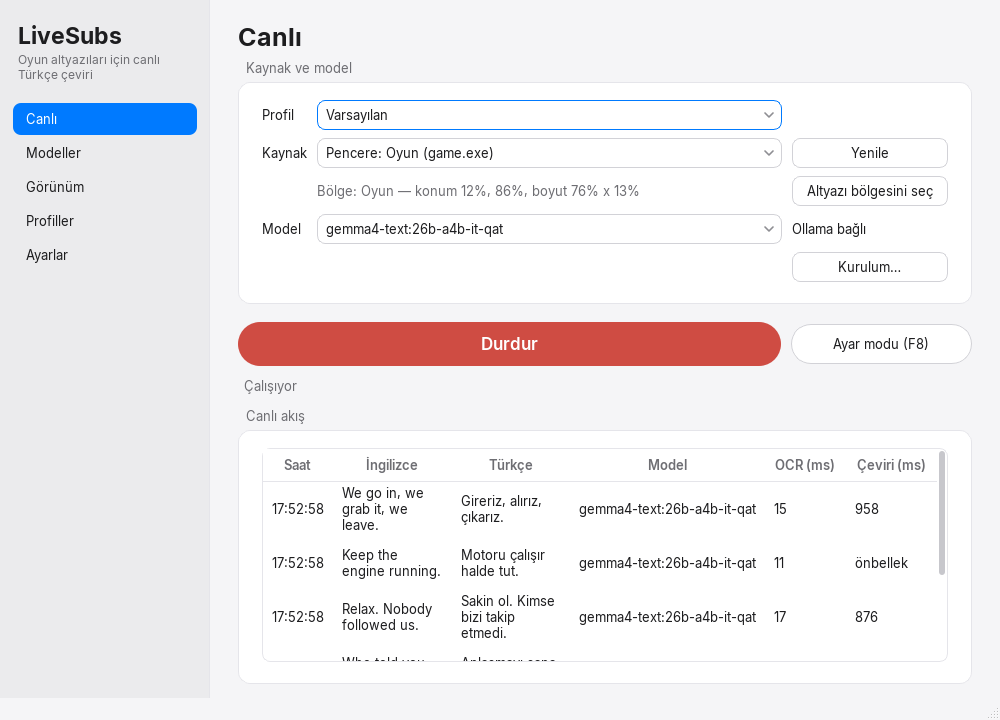
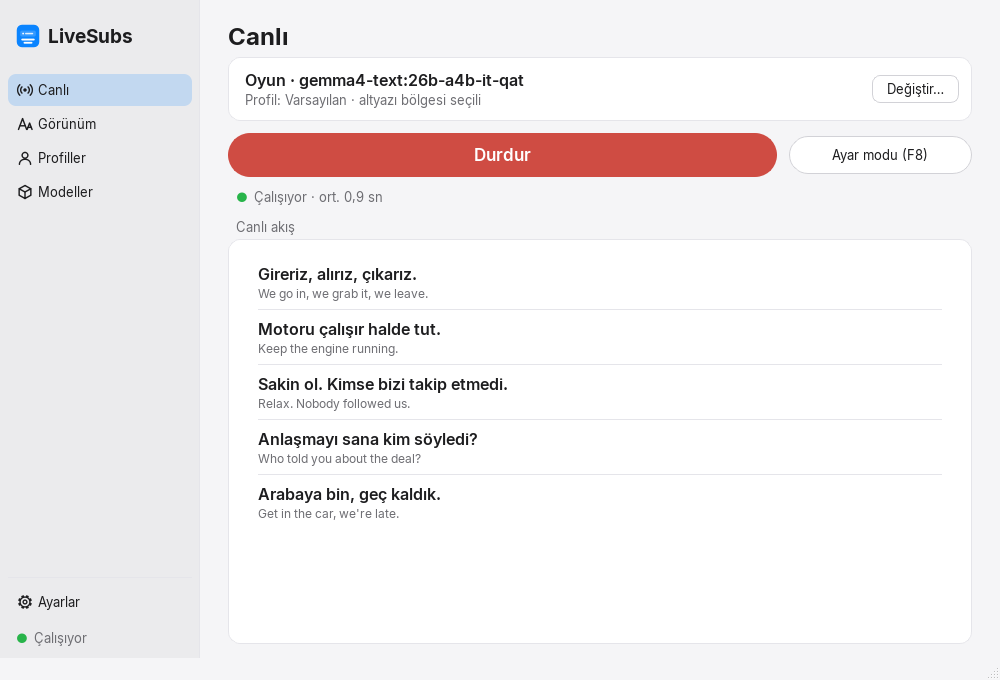
Regenerate the README screenshots and document the redesign
Screenshots rendered offscreen with fake sources and lines in Apple dark
and light. The Models page hides its empty download status row. README
(EN/TR) and CLAUDE.md describe the themes, the sidebar and the pages.

diff --git a/src/livesubs/ui/tabs/models.py b/src/livesubs/ui/tabs/models.py
@@ -254,6 +254,7 @@ class ModelsTab(QWidget):
         self.pull_progress.hide()
         grid.addWidget(self.pull_progress, 2, 0, 1, 3)
         self.pull_status = QLabel(wordWrap=True)
+        self.pull_status.hide()  # shown with a message: no empty row in the card
         grid.addWidget(self.pull_status, 3, 0, 1, 3)
         self._update_pull_hint(self.pull_combo.currentText())
         return box
@@ -487,6 +488,10 @@ class ModelsTab(QWidget):
 
     # --- download --------------------------------------------------------------------------------
 
+    def _set_pull_status(self, text: str) -> None:
+        self.pull_status.setText(text)
+        self.pull_status.setVisible(bool(text))
+
     def _update_pull_hint(self, name: str) -> None:
         entry = next((m for m in catalog.RECOMMENDED if m.name == name.strip()), None)
         if entry is None:
@@ -499,14 +504,14 @@ class ModelsTab(QWidget):
         if not name:
             return
         if any(catalog.same_model(name, m.name) for m in self.installed()):
-            self.pull_status.setText(t("models.already_installed", model=name))
+            self._set_pull_status(t("models.already_installed", model=name))
             return
         entry = next((m for m in catalog.RECOMMENDED if m.name == name), None)
         if entry is not None:
             folder = models_dir()
             free = free_bytes(folder)
             if free < entry.download_bytes * 1.05:
-                self.pull_status.setText(
+                self._set_pull_status(
                     t(
                         "setup.model.no_space",
                         need=entry.download_bytes / GB,
@@ -520,7 +525,7 @@ class ModelsTab(QWidget):
         self.pull_progress.setValue(0)
         self.pull_progress.show()
         self.pull_cancel_button.show()
-        self.pull_status.setText(t("setup.model.progress_unknown", status=name))
+        self._set_pull_status(t("setup.model.progress_unknown", status=name))
         self._update_buttons()
         url = self.config.ollama.url
 
@@ -542,10 +547,10 @@ class ModelsTab(QWidget):
 
     def _on_progress(self, progress: PullProgress) -> None:
         if not progress.total:
-            self.pull_status.setText(t("setup.model.progress_unknown", status=progress.status))
+            self._set_pull_status(t("setup.model.progress_unknown", status=progress.status))
             return
         self.pull_progress.setValue(round(1000 * progress.completed / progress.total))
-        self.pull_status.setText(
+        self._set_pull_status(
             t(
                 "models.pull_progress",
                 status=progress.status,
@@ -560,11 +565,11 @@ class ModelsTab(QWidget):
         self.pull_progress.hide()
         self.pull_cancel_button.hide()
         if error == CANCELLED:
-            self.pull_status.setText(t("setup.model.cancelled"))
+            self._set_pull_status(t("setup.model.cancelled"))
         elif error:
-            self.pull_status.setText(t("setup.model.failed", detail=error))
+            self._set_pull_status(t("setup.model.failed", detail=error))
         else:
-            self.pull_status.setText(t("models.pulled", model=name))
+            self._set_pull_status(t("models.pulled", model=name))
             self.models_changed.emit()
         self._update_buttons()
         self.refresh()

diff --git a/CLAUDE.md b/CLAUDE.md
@@ -395,11 +395,33 @@ font size, text color, outline/shadow, background opacity, max lines shown.
 
 ### Main window
 
-Source + profile pick, Ollama status (connected, model loaded), names of the models in use, big
-Start/Stop. Live feed: English line, Turkish line, model, lane, OCR ms + translation ms. Tabs:
-Live / Models / Appearance / Profiles / Settings in a sidebar (fps, thresholds, language, theme, port, hotkeys -> config).
-Models tab shows what to do when Ollama is missing/not running; pull shows progress, downloaded /
-remaining size, cancel. Minimizes to tray.
+macOS-Settings layout (2026-10-30, branch `ui-redesign`), window 1000x680 (checked down to
+820x560). **Sidebar** (200 px): app icon + "LiveSubs" (`ui/header.py`), icon buttons Canlı,
+Görünüm, Profiller, Modeller (`MainWindow.nav_buttons`, `show_page(i)` in that order), Ayarlar
+apart at the bottom, then a status dot (`statusDot[state=ok|warn|idle]`: Çalışıyor /
+Duraklatıldı / Ollama kapalı / Durdu, `_update_status`). Selected button: faint accent
+(`nav_selected`), hover fainter (`nav_hover`). Pages in a `QStackedWidget`, each with a large
+`#pageTitle`; long pages scroll.
+- **Live page**: a warning card (`QFrame#warnCard`: Ollama missing/stopped + "Ollama'yı
+  başlat" / "Kurulum…") only while something is wrong; a summary card "<source> · <model>",
+  "Profil: … · altyazı bölgesi seçili/seçilmedi" + **"Değiştir…"**, which opens the window-modal
+  "Kaynak ve model" sheet (`source_sheet`: profile, source + Yenile, region + select, model;
+  it hides while the region is marked and comes back after a pick or Esc). The region label
+  names the source only; percentages in its tooltip. Start/Stop pill + "Ayar modu (F8)" pill;
+  the state line "● Çalışıyor · ort. 1,2 sn" (mean of the last 20 non-cached translations,
+  cleared on Start; `_show_state` keeps the base text). Feed: `ui/feed.py` `FeedList` (Turkish
+  12 pt semibold, English 9 pt muted under it, hairlines, newest on top, painted by a delegate
+  from the palette); its rows mirror the old table row for row. **Settings -> Geliştirici
+  görünümü** (`config.developer_view`) shows the table (time, English, Turkish, model, OCR ms,
+  translation ms) instead.
+- **Settings page**: cards of rows — "Pencere ve görünüm" (theme, tray, recording mode,
+  developer view), "Telefonda göster" (QR at the card's right), "Yakalama kartı önizlemesi",
+  "Kısayol tuşları" — and a folded **"Gelişmiş"** (Ollama URL, context lines, keep-alive,
+  reading fps, upkeep: Kurulum…, clear cache, log folder). Setup stays reachable there.
+- Appearance: three row cards; Profiles: forms with (i) tips instead of paragraphs; Models:
+  compare explanation as (i), an empty pull status row hidden.
+- Models page shows what to do when Ollama is missing/not running; pull shows progress,
+  downloaded / remaining size, cancel. Minimizes to tray.
 
 - **Recording mode** (setting, default off): disables `WDA_EXCLUDEFROMCAPTURE` so OBS/screenshots
   see the overlay (README GIF, LinkedIn video). When on, warn if the overlay rectangle intersects the
@@ -458,39 +480,46 @@ remaining size, cancel. Minimizes to tray.
   desktop + Start menu shortcuts for the packaged exe (`platform/shortcuts.py`, WScript.Shell via
   PowerShell), settings export/import (`core/backup.py`: zip of `config.json` + `profiles/*.json`;
   import takes only those names, then offers a restart and stops saving the old settings).
-- Theme (step 16 2026-10-22; **redesigned 2026-10-30 on branch `ui-redesign`**, Apple-like):
-  `ui/theme/` — `base.qss` template with `{{token}}` placeholders (comments stripped first;
-  `{{assets}}` = the assets folder for `url(...)`), token files `dark.json` (window #1C1C1E,
-  cards #2C2C2E, accent #0A84FF) and `light.json` (#F5F5F7, white cards with a hairline
-  border, text #1D1D1F, accent #007AFF); same token set (test). Settings choice
-  `config.theme` = **"system" (default)** / "dark" / "light"; unknown values (the removed
-  "vice") validate to "system". `resolve(choice)`: "system" -> Qt's `colorScheme()`, else the
-  registry's `AppsUseLightTheme` (offscreen Qt reports Unknown). `apply_theme(choice)` also
-  sets / unsets Qt's color scheme (the Windows title bar follows) **with the style hints'
-  signals blocked** — `colorSchemeChanged` fires synchronously and ping-ponged between windows
-  into infinite recursion (found by the UI tests). `MainWindow._on_color_scheme` re-applies on
-  a live Windows switch, only for "system". `theme.prepare(app)` (in `app.py`, before any
-  widget): Fusion + Inter. Palette from the tokens (popups, dialogs match), app font Inter 10 pt.
-  Shape: cards = `QGroupBox` (12 px radius, title above the card, muted semibold), fields and
-  buttons 8 px, check boxes/radios drawn by QSS (`check.svg`), Start/Stop `#startButton` a
-  44 px pill (radius 22; accent, `running=true` -> calm red `stop` token), calibration and
-  preview buttons `pill=true`. No glow, no gradients, no shadows (cards stand out by color).
-  Main window: **macOS-Settings sidebar** (`QListWidget#nav`, row height set in code — QSS
-  padding does not size list rows) with the logo "LiveSubs" (Inter Bold) + tagline on top
-  (`ui/header.py`, plain labels), and a `QStackedWidget` of pages, each with a large
-  `#pageTitle`; `MainWindow.show_page(i)`. Live page: "Kaynak ve model" card, Start + Ayar modu
-  pills, state, "Canlı akış" card with the feed. Görünüm split into three cards. Long pages
-  scroll (content `objectName="page"` stays transparent); window 1000x720.
-  Fonts in `src/livesubs/assets/fonts/`: **Inter** Regular/SemiBold/Bold only (Audiowide and
-  Monoton removed with the Vice theme); covers Turkish (test). Listed in the README.
-  Own SVG art in `src/livesubs/assets/`: `icon.svg` (blue rounded square, two subtitle bars;
-  the sunset/palm icon and `header.svg` are gone), `arrow_up/down.svg` (neutral gray, both
-  themes), `check.svg`. `ui/icon.py` renders the SVG itself (no SVG icon engine plugin needed)
-  and writes `icon.ico` (PNG-in-ICO) via `scripts/make_icon.py` — rerun it after editing the
-  SVG. The packaged exe keeps pythonw's own icon (changing it would break the signature), so
-  shortcuts get `IconLocation = icon.ico` (setup dialog + `create_shortcut.ps1`). No Apple
-  logos, SF Pro or SF Symbols (license); no Rockstar/GTA logos, fonts, art or names.
-  The overlay's "Vice" *style preset* is an overlay feature and stays.
+- Theme (step 16 2026-10-22; **Apple theme + sidebar redesign 2026-10-30, branch
+  `ui-redesign`**): `ui/theme/` — `base.qss` template with `{{token}}` placeholders (comments
+  stripped first; `{{assets}}` = the assets folder for `url(...)`), four token files with one
+  token set (test): **`apple.json` (default**: window #1C1C1E, cards #2C2C2E, accent and Start
+  #0A84FF, Stop calm red #C4554D, Inter everywhere, no glow), `apple_light.json` (#F5F5F7,
+  white cards with a hairline, text #1D1D1F, accent #007AFF), `vice.json` (neon sunset:
+  Audiowide headings, Monoton logo, gradient Start, glow, `header_art`) and `dark.json`
+  ("Sade koyu"). Tokens are plain text, so a token may be a QSS expression in one theme and a
+  color in another (Vice's `start_bg` gradient); tokens read by `Theme.color` (palette, painted
+  widgets) stay colors (test). Settings choices `config.theme` (= `theme.CHOICES`): apple,
+  apple_light, **system** (Apple dark or light after Windows: Qt's `colorScheme()`, else the
+  registry's `AppsUseLightTheme`; re-applied live on `colorSchemeChanged`), vice, dark; unknown
+  values validate to "apple". `apply_theme` also forces / unsets Qt's color scheme (the
+  Windows title bar follows) **with the style hints' signals blocked** — the signal fires
+  synchronously and ping-ponged between windows into infinite recursion (found by the tests).
+  `theme.prepare(app)` (in `app.py`, before any widget): Fusion + bundled fonts. Palette from
+  the tokens, app font Inter 10 pt. Glow (`set_glow`) only on the logo and Start, only with a
+  `glow` token (Vice).
+  Shape and spacing: cards = `QGroupBox` (12 px, title above, muted semibold; `untitled`
+  property = flush) or `QFrame#card`; fields/buttons 8 px; Start/Stop `#startButton` a 40 px
+  pill; `pill=true` buttons; check boxes/radios drawn by QSS (`check.svg`). 4/8/12/16/24 scale:
+  card padding 6-16, 12 between cards. **A QSS `min-height` overrides `setFixedHeight`**: it is
+  set on one-line fields only (it squashed the profile's game description to one line).
+  `ui/rows.py`: `RowCard` (macOS-Settings rows: label column 190 px, control right, hairline
+  `QFrame#separator` between rows, `set_side` for the QR code), `info(tip)` = gray (i) with a
+  tooltip (long explanations live there), `labeled(text, tip)` for QFormLayout labels,
+  `Disclosure` (folding title, folded at first). `ui/icons.py`: own line icons
+  (`assets/icons/*.svg`, drawn black, 20 px viewBox, 1.6 px strokes: live, appearance,
+  profiles, models, settings, info, warning) tinted with `SourceIn` to a theme color.
+  Fonts in `src/livesubs/assets/fonts/` (OFL texts next to them): **Inter** (body, Apple
+  themes, overlay), **Audiowide** and **Monoton** (Vice). All cover Turkish (test).
+  Own SVG art in `src/livesubs/assets/`: `icon.svg` (blue rounded square with subtitle bars,
+  2026-10-30; replaced the sunset/palm icon), `header.svg` (Vice's banner, drawn dimmed at the
+  top of the sidebar and faded into it so the name stays readable), `arrow_up/down.svg`
+  (neutral gray), `check.svg`. `ui/icon.py` renders the SVG itself (no SVG icon engine plugin
+  needed) and writes `icon.ico` (PNG-in-ICO) via `scripts/make_icon.py` — rerun it after
+  editing the SVG. The packaged exe keeps pythonw's own icon (changing it would break the
+  signature), so shortcuts get `IconLocation = icon.ico`. No Apple logos, SF Pro or SF Symbols
+  (license); no Rockstar/GTA logos, fonts, art or names. The overlay's "Vice" *style preset*
+  is an overlay feature, independent of the app theme.
 - Packaging (`scripts/build_exe.ps1`, replaces PyInstaller 2026-10-22): the official **embeddable
   Python** of the venv's exact version; its PSF-signed `pythonw.exe` (signature checked) renamed to
   `LiveSubs.exe`; `python313._pth` adds `Lib\site-packages` + `import site`; runtime deps + app via
@@ -510,7 +539,7 @@ remaining size, cancel. Minimizes to tray.
 ```
 src/livesubs/
   app.py, __main__.py, i18n/
-  assets/      icon.svg, icon.ico, arrow_*.svg, check.svg, fonts/ (+ OFL licenses) — package data
+  assets/      icon.svg, icon.ico, header.svg, arrow_*.svg, check.svg, icons/, fonts/ (+ OFL)
   core/        config.py, profiles.py, paths.py, jsonio.py, geometry.py, messages.py, backup.py,
                translation_pack.py, child_process.py, logs.py
   device/      host.py (device host process), messages.py, preview.py
@@ -522,9 +551,10 @@ src/livesubs/
     translate/ base.py, ollama.py, orchestrator.py, prompt.py, cache.py
   ollama/      client.py, catalog.py, install.py, vram.py, compare.py
   platform/    win32.py, hotkeys.py, shortcuts.py, gpu.py, com.py, video_devices.py
-  ui/          main_window.py, header.py, icon.py, qr.py, overlay.py, region_frame.py, inspector.py,
+  ui/          main_window.py, header.py, icon.py, icons.py, rows.py, feed.py, qr.py, overlay.py,
+               region_frame.py, inspector.py,
                tray.py, setup_check.py, single_instance.py, capture_card.py, frame_region.py,
-               tabs/, theme/ (base.qss, dark.json, light.json)
+               tabs/, theme/ (base.qss, apple.json, apple_light.json, vice.json, dark.json)
   web/         server.py, feed.py, static/index.html
 tests/         samples/ (+ samples.json), helpers/, test_*.py
 scripts/       build_exe.ps1, embedded/ (sitecustomize.py, smoke_test.py), create_shortcut.ps1,
@@ -557,8 +587,8 @@ Phase 2 — features
 - [x] 15. Video device source (capture card): enumerate, busy/lost/black errors, region on the
   preview or a still frame (done as 9b, 2026-10-30)
 - [x] 16. Vice theme, fonts, SVG icon/header, overlay styles — 2026-10-22
-- [x] 16b. Apple-like redesign: dark/light/system themes, sidebar, cards, pill Start —
-  2026-10-30 on branch `ui-redesign` (not merged, not pushed)
+- [x] 16b. Apple theme (default) + sidebar redesign; Vice and Sade koyu kept — 2026-10-30
+  on branch `ui-redesign` (not merged, not pushed)
 - [x] 17. Web output + QR (+ Screen Wake Lock), phone-only mode — 2026-10-23
 
 Phase 3 — release
@@ -905,3 +935,15 @@ First **finish the app** (each step committed and pushed; no new release unless 
   costs redraws and the brief allowed "very little"); the overlay's Vice style preset kept (a
   feature, not the app theme). The brief arrived truncated after "...json) kullan,
   gerekiyorsa" — any later requirements were not seen.
+- 2026-10-30: **The full brief arrived** (the first paste was cut off): add "Apple" as a new
+  default theme and **keep Vice and Sade koyu**, show a plan + sketch first. Plan approved by
+  the user with my three proposals: build on the branch and bring Vice/Sade koyu (fonts,
+  banner, glow) back; keep Apple light and "system" as choices (default Apple dark); keep the
+  new plain icon. Then built without further questions, one commit per step: themes, icons,
+  sidebar, Live page (summary + sheet + warning card + mean time), feed list + developer
+  view, rows/Gelişmiş, screenshots + docs. The phone page is untouched (user). Decisions made
+  alone: profile picking moved into the "Değiştir…" sheet (the brief listed source, region and
+  model; the profile combo had to go somewhere off the main screen); setup ("Kurulum…") also
+  in Settings -> Gelişmiş, since the Live page shows it only on problems and it carries the
+  settings backup; Vice's banner dimmed and faded so "LiveSubs" stays readable; the mean time
+  ignores cache hits (0 ms would flatter it).

diff --git a/README.md b/README.md
@@ -15,9 +15,9 @@ through [Ollama](https://ollama.com), and shows the translation in a click-throu
 the game, or on your phone. It uses no cloud APIs: capture, OCR and translation all run on your own
 PC.
 
-| Dark | Light |
+| Apple dark (default) | Apple light |
 | --- | --- |
-| ![Main window in the dark theme: live feed with English lines, their Turkish translations and timings](docs/images/live.png) | ![The same window in the light theme](docs/images/live-light.png) |
+| ![Main window in the Apple dark theme: sidebar, summary of source and model, live feed with English lines, their Turkish translations and timings](docs/images/live.png) | ![The same window in the light theme](docs/images/live-light.png) |
 
 <!-- Demo GIF goes here: docs/images/demo.gif (record it with recording mode on). -->
 
@@ -45,19 +45,20 @@ PC.
 - **Per-game profiles.** Source, region, colours, overlay style and position, context and
   glossary, game VRAM reserve.
 - **Real app.** Double-click the exe and a setup dialog installs what is missing. It has global
-  hotkeys, a tray icon and a calibration mode with a live Inspector. Dark and light themes;
-  by default it follows Windows' light/dark setting and switches with it.
+  hotkeys, a tray icon and a calibration mode with a live Inspector. A macOS-Settings-like
+  window with a sidebar; themes Apple dark (default), Apple light, Apple following
+  Windows' light/dark setting, Vice (neon sunset) and plain dark.
 
 | Settings with the phone QR code | Phone page |
 | --- | --- |
-| ![Settings tab with the phone output and its QR code](docs/images/settings.png) | <img src="docs/images/phone.png" alt="Phone page: newest translation at the top, older ones dimmed below" width="270"> |
+| ![Settings page with the phone output and its QR code](docs/images/settings.png) | <img src="docs/images/phone.png" alt="Phone page: newest translation at the top, older ones dimmed below" width="270"> |
 
 ## How it works
 
 ```mermaid
 flowchart LR
     subgraph UI["UI process (PySide6)"]
-        MW[Main window<br/>tabs, tray, hotkeys]
+        MW[Main window<br/>sidebar pages, tray, hotkeys]
         OV[Overlay]
         WEB[Web server<br/>SSE + QR]
         MM[Model manager]
@@ -196,15 +197,16 @@ src/livesubs/
   engine/      engine process: capture/, vision/, ocr/, text/, translate/
   ollama/      REST client, model catalog, VRAM estimate, model comparison
   platform/    Win32 helpers, hotkeys, GPU (DXGI), shortcuts
-  ui/          main window, tabs, overlay, calibration, setup dialog, theme
+  ui/          main window, pages, overlay, calibration, setup dialog, theme
   web/         phone output: SSE server, page
 ```
 
 ## Credits
 
-- Font: [Inter](https://rsms.me/inter/), under the SIL Open Font License (text in
-  `src/livesubs/assets/fonts`).
-- The icon is original. LiveSubs is not affiliated with any game or publisher.
+- Fonts: [Inter](https://rsms.me/inter/), [Audiowide](https://fonts.google.com/specimen/Audiowide)
+  and [Monoton](https://fonts.google.com/specimen/Monoton) (the last two in the Vice theme), all
+  under the SIL Open Font License (texts in `src/livesubs/assets/fonts`).
+- Icons and header art are original. LiveSubs is not affiliated with any game or publisher.
 
 ## License
 

diff --git a/README.tr.md b/README.tr.md
@@ -15,9 +15,9 @@ altyazı bölgesini Windows'un yerleşik OCR'ı ile okur. Her satırı [Ollama](
 katmanda (overlay) ya da telefonunda gösterir. Bulut servisi kullanmaz: yakalama, OCR ve çeviri
 tamamen kendi bilgisayarında çalışır.
 
-| Koyu | Açık |
+| Apple koyu (varsayılan) | Apple açık |
 | --- | --- |
-| ![Koyu temada ana pencere: İngilizce satırlar, Türkçe çevirileri ve süreleriyle canlı akış](docs/images/live.png) | ![Aynı pencere açık temada](docs/images/live-light.png) |
+| ![Apple koyu temada ana pencere: kenar çubuğu, kaynak ve model özeti, İngilizce satırlar, Türkçe çevirileri ve süreleriyle canlı akış](docs/images/live.png) | ![Aynı pencere Apple açık temada](docs/images/live-light.png) |
 
 <!-- Demo GIF buraya: docs/images/demo.gif (kayıt modu açıkken kaydedin). -->
 
@@ -46,19 +46,20 @@ tamamen kendi bilgisayarında çalışır.
 - **Oyun başına profil.** Kaynak, bölge, renkler, overlay stili ve konumu, bağlam ve sözlük,
   oyuna ayrılan VRAM.
 - **Gerçek uygulama.** Exe'ye çift tıklarsın; eksik bir şey varsa kurulum penceresi kurar.
-  Genel kısayol tuşları, sistem tepsisi simgesi ve canlı Inspector'lı ayar modu var. Koyu ve
-  açık tema; varsayılan olarak Windows'un açık/koyu ayarını izler ve onunla birlikte değişir.
+  Genel kısayol tuşları, sistem tepsisi simgesi ve canlı Inspector'lı ayar modu var. macOS
+  Ayarlar benzeri, kenar çubuklu pencere; temalar: Apple koyu (varsayılan), Apple açık,
+  Windows'un açık/koyu ayarını izleyen Apple, Vice (neon gün batımı) ve Sade koyu.
 
 | Ayarlar ve telefon QR kodu | Telefon sayfası |
 | --- | --- |
-| ![Telefon çıktısı ve QR koduyla Ayarlar sekmesi](docs/images/settings.png) | <img src="docs/images/phone.png" alt="Telefon sayfası: en yeni çeviri en üstte, eskiler altta soluk" width="270"> |
+| ![Telefon çıktısı ve QR koduyla Ayarlar sayfası](docs/images/settings.png) | <img src="docs/images/phone.png" alt="Telefon sayfası: en yeni çeviri en üstte, eskiler altta soluk" width="270"> |
 
 ## Nasıl çalışır
 
 ```mermaid
 flowchart LR
     subgraph UI["Arayüz süreci (PySide6)"]
-        MW[Ana pencere<br/>sekmeler, tepsi, kısayollar]
+        MW[Ana pencere<br/>kenar çubuğu, tepsi, kısayollar]
         OV[Overlay]
         WEB[Web sunucusu<br/>SSE + QR]
         MM[Model yöneticisi]
@@ -197,9 +198,11 @@ atlanır.
 
 ## Teşekkürler
 
-- Yazı tipi: [Inter](https://rsms.me/inter/), SIL Open Font License ile (metni
-  `src/livesubs/assets/fonts` içinde).
-- Simge özgündür. LiveSubs hiçbir oyun ya da yayıncıyla bağlantılı
+- Yazı tipleri: [Inter](https://rsms.me/inter/),
+  [Audiowide](https://fonts.google.com/specimen/Audiowide) ve
+  [Monoton](https://fonts.google.com/specimen/Monoton) (son ikisi Vice temasında), hepsi
+  SIL Open Font License ile (metinleri `src/livesubs/assets/fonts` içinde).
+- Simgeler ve başlık görseli özgündür. LiveSubs hiçbir oyun ya da yayıncıyla bağlantılı
   değildir.
 
 ## Lisans
